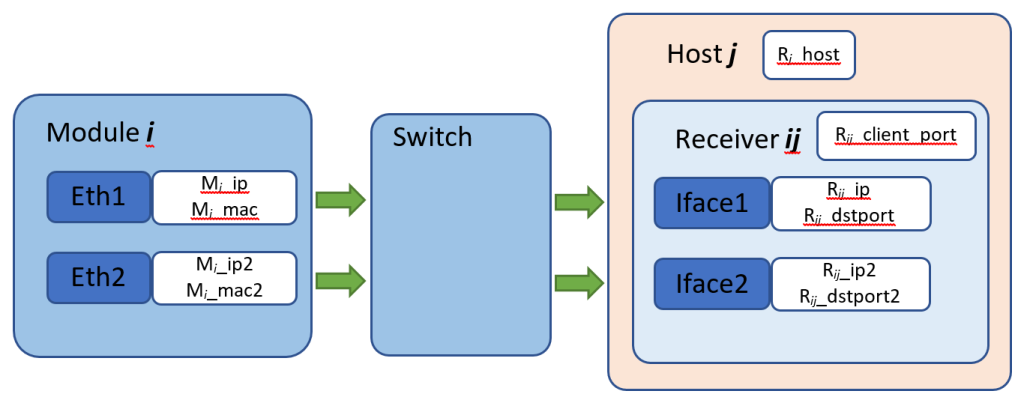
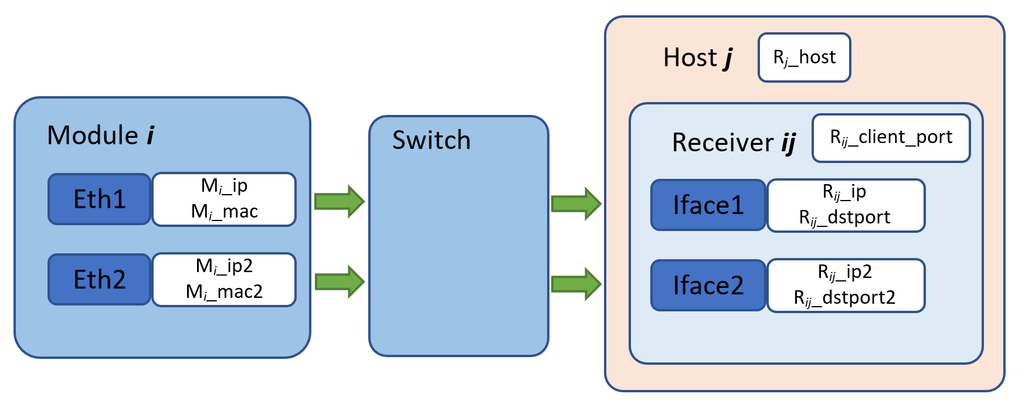
Doc: Update Round-Robin requirements:
* Remove item red underline in diagram
* Add missing rx_hostname config entry

Changed region(s): [[0.0, 0.0298, 0.999, 0.9826]]

diff --git a/docs/round-robin.md b/docs/round-robin.md
@@ -40,12 +40,15 @@ i:j|udp_dstip2 <Rij_ip2>    # for Jungfrau only
 i:j|udp_dstport <Rij_port>
 i:j|udp_dstport2 <Rij_port2>
 i:j|rx_tcpport <Rij_client_port>
+
+#receiver
+j|rx_hostname <Rj_host>   # i could potentially be specified as well
 ```
 
 Such example requires two new features:
 
 1. The `roundrobinrecvs` parameter specifies the number of receivers that the module needs to send the data to, which defaults to `1`
-2. An extended syntax allowing an additional Round Robin index `j` that specifies the receiver the parameter applies to. The proposal is to add an extra `j|` optional token between the module index and the parameter name. Another separator character like `,` could be used as well, as long as it is not `:`. The use of different separators for `i` and `j` is to be able to determine which is specified when only one of them is provided.
+2. An extended syntax allowing an additional Round Robin index `j` that specifies the receiver the parameter applies to. The proposal is to add an extra `j|` optional token between the module index and the parameter name. Another separator character like `,` could be used as well, as long as it is not `:` (nor `-`). The use of different separators for `i` and `j` (and detector ID) is to be able to determine which is specified when not all are provided.
 
 ## *slsDetectorPackage* API
 The following changes are proposed to the *slsDetectorPackage* API in order to implement this feature.
